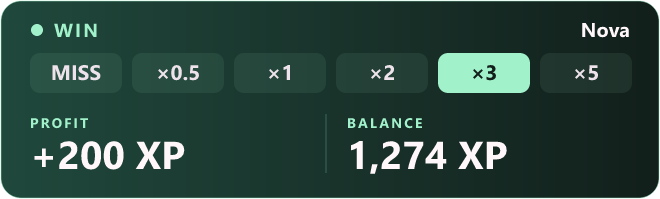
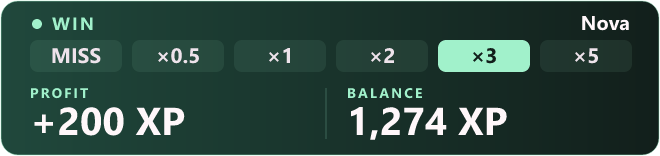
Update reward settings, reset controls and no-limit game preview

diff --git a/red-casino/dashboard-preview/app.js b/red-casino/dashboard-preview/app.js
@@ -167,15 +167,57 @@ function economyPage() {
         <div class="currency-preview"><span>Preview</span><output id="currency-preview">${escapeHtml(xp(10000))}</output></div>
       </div>
       ${section('📅', 'Daily check-in', 'Members claim once per server calendar day with /daily.')}
+      <div class="rewards-guide"><div><strong>A starting pace for 5k–20k bets</strong><p>5k attendance, up to 4k streak bonus, 1k membership bonus, 100 per eligible chat message, and 500 per five voice minutes. No daily earning limits. Review the rates, then save.</p></div><button type="button" class="secondary" data-rewards-preset>Fill community preset</button></div>
       <div class="fields">
         <label>Server timezone<input name="timezone" value="${escapeHtml(value.timezone)}" placeholder="Asia/Manila" maxlength="100" required></label>
         ${input('dailyXp', 'Daily reward · XP', value.dailyXp, 0, 100000000)}
+        ${input('dailyStreakXp', 'Bonus per extra consecutive day · XP', value.dailyStreakXp, 0, 1000000)}
+        ${input('dailyStreakCap', 'Streak bonus stops growing on day', value.dailyStreakCap, 1, 30)}
         ${input('memberXp', 'Membership bonus · XP', value.memberXp, 0, 100000000)}
         ${input('memberDays', 'Membership required · days', value.memberDays, 0, 3650)}
       </div>
+      ${section('💬', 'Chat rewards', 'Earn across text channels, with one cooldown per member across the whole server. Bots, webhooks, edits, and slash commands do not earn chat rewards.')}
+      ${check('textXpEnabled', 'Enable chat rewards', value.textXpEnabled)}
+      <div class="fields">
+        ${input('textXp', 'Per eligible message · XP', value.textXp, 0, 1000000)}
+        ${input('textCooldown', 'Reward cooldown · seconds', value.textCooldown, 15, 3600)}
+        ${input('textDailyLimit', 'Optional daily chat limit · 0 = No limit', value.textDailyLimit, 0, 100000000)}
+      </div>
+      ${section('🎧', 'Voice rewards', 'Earn for eligible time in normal voice channels. AFK and stage channels never earn rewards. Offline bot time does not count.')}
+      ${check('voiceXpEnabled', 'Enable voice rewards', value.voiceXpEnabled)}
+      ${check('voiceIgnoreMuted', 'Pause rewards for muted or deafened members', value.voiceIgnoreMuted)}
+      <div class="fields">
+        ${input('voiceXp', 'Per voice interval · XP', value.voiceXp, 0, 1000000)}
+        ${input('voiceMinutes', 'Eligible minutes per reward', value.voiceMinutes, 1, 60)}
+        ${input('voiceDailyLimit', 'Optional daily voice limit · 0 = No limit', value.voiceDailyLimit, 0, 100000000)}
+        ${input('voiceMinMembers', 'Eligible humans required in the same channel', value.voiceMinMembers, 1, 10)}
+      </div>
+      ${section('📍', 'Activity exclusions', 'All visible server channels count unless excluded here. Excluding a category also excludes its channels and their threads.')}
+      <details class="game-channels"><summary>Excluded channels and categories</summary><div class="channel-options">
+        ${[...(overview.activityChannels ?? []), ...value.activityExcludedChannels.filter(id => !(overview.activityChannels ?? []).some(channel => channel.id === id)).map(id => ({ id, name: 'Unavailable channel' }))]
+          .map(channel => `<label><input type="checkbox" name="activityExcludedChannels" value="${escapeHtml(channel.id)}" ${value.activityExcludedChannels.includes(channel.id) ? 'checked' : ''}><span>${channel.type === 4 ? 'Category · ' : channel.type === 2 || channel.type === 13 ? 'Voice · ' : '#'}${escapeHtml(channel.name)}</span></label>`).join('')}
+      </div></details>
       ${section('🎁', 'Member gifts', 'The sender pays the fee on top of the gift, rounded up to the next whole XP.')}
       <div class="fields">${input('giftFee', 'Transfer fee · %', value.giftFee, 0, 100)}</div>
       ${save()}
+    </form>
+    <form class="panel" data-form="reset-schedule">
+      ${section('🔄', 'Scheduled balance resets', `Use the server timezone: ${escapeHtml(value.timezone)}. Each reset zeroes balances and closes unfinished games, including lotteries. Attendance history and today's activity totals stay intact.`)}
+      ${check('xpResetEnabled', 'Enable scheduled balance resets', value.xpResetEnabled)}
+      <div class="fields">
+        <label>Repeat<select name="xpResetCycle">${['daily', 'weekly', 'monthly'].map(cycle => `<option value="${cycle}" ${value.xpResetCycle === cycle ? 'selected' : ''}>${cycle[0].toUpperCase() + cycle.slice(1)}</option>`).join('')}</select></label>
+        ${input('xpResetHour', 'Hour · 24-hour clock', value.xpResetHour, 0, 23)}
+        ${input('xpResetMinute', 'Minute', value.xpResetMinute, 0, 59)}
+        <label>Weekday · weekly only<select name="xpResetWeekday">${['Sunday', 'Monday', 'Tuesday', 'Wednesday', 'Thursday', 'Friday', 'Saturday'].map((day, index) => `<option value="${index}" ${value.xpResetWeekday === index ? 'selected' : ''}>${day}</option>`).join('')}</select></label>
+        ${input('xpResetMonthDay', 'Day of month · monthly only', value.xpResetMonthDay, 1, 28)}
+      </div>
+      <p class="muted">${session.demo ? 'Preview only. Scheduled resets do not run here.' : overview.resetStatus?.nextAt ? `Next reset: ${escapeHtml(new Date(overview.resetStatus.nextAt).toLocaleString('en-US', { timeZone: value.timezone, dateStyle: 'medium', timeStyle: 'short' }))} · ${escapeHtml(value.timezone)}` : 'Scheduled resets are off.'}</p>
+      ${save()}
+    </form>
+    <form class="panel" data-form="reset">
+      ${section('🧹', 'Reset all balances now', 'Set every member balance to zero and close unfinished games. This keeps attendance history, activity totals, and the audit ledger.')}
+      <div class="fields"><label>Type RESET to confirm<input name="confirmation" pattern="RESET" autocomplete="off" required></label></div>
+      <div class="form-footer"><span>Applies only to the selected server.</span><button class="primary danger">Reset All Balances</button></div>
     </form>
     <form class="panel" data-form="adjust">
       ${section('🛠', 'Adjust a balance', 'Add or remove XP and record your reason in the ledger. Use /xp for a member without a profile.')}
@@ -233,8 +275,8 @@ function gamesPage() {
         return `<section class="panel game"><div class="game-top">${section(emoji, name, description)}
           ${check(`${id}.enabled`, 'Enabled', config.enabled)}</div><div class="command">/${id}</div>
           <div class="fields game-limits">
-          ${free ? '' : input(`${id}.min`, 'Min stake', config.min, 1, 100000000)}
-          ${free ? '' : input(`${id}.max`, 'Max stake', config.max, 1, 100000000)}
+          ${free ? '' : input(`${id}.min`, 'Min stake', config.min, 1, Number.MAX_SAFE_INTEGER)}
+          ${free ? '' : input(`${id}.max`, 'Max stake · 0 = No limit', config.max, 0, Number.MAX_SAFE_INTEGER)}
           ${input(`${id}.cooldown`, 'Cooldown · s', config.cooldown, 0, 3600)}
           </div>${id === 'wheel' ? extra[id]() : extra[id] ? `<div class="fields">${extra[id]()}</div>` : ''}
           ${options ? `<div class="fields">${options.map(([key, label, min, max]) => input(key, label, value[key], min, max)).join('')}</div>` : ''}
@@ -295,6 +337,16 @@ async function loadGuild(id) {
 }
 
 document.addEventListener('click', async (event) => {
+  if (event.target.closest('[data-rewards-preset]') && session.rewardsPreset) {
+    const form = root.querySelector('[data-form="economy"]');
+    for (const [name, value] of Object.entries(session.rewardsPreset)) {
+      const input = form.elements.namedItem(name);
+      if (!input) continue;
+      if (input.type === 'checkbox') input.checked = value;
+      else input.value = value;
+    }
+    announce('Community reward rates filled in. Review them, then save changes.');
+  }
   const server = event.target.closest('[data-server]');
   if (server) { announce(''); await loadGuild(server.dataset.server); }
   if (event.target.closest('#servers')) { announce(''); await loadGuild(''); }
@@ -363,7 +415,16 @@ root.addEventListener('submit', async (event) => {
   submit.disabled = true;
   announce('');
   try {
-    if (kind === 'adjust') {
+    if (kind === 'reset') {
+      form.dataset.requestId ||= crypto.randomUUID();
+      const reset = await api(`/api/guilds/${id}/reset`, 'POST', { confirmation: data.get('confirmation'), requestId: form.dataset.requestId });
+      if (selection !== current) return;
+      const refreshed = await api(`/api/guilds/${id}`);
+      if (selection !== current) return;
+      overview = refreshed;
+      render();
+      announce(`${reset.changed} balance(s) reset. ${reset.closedRounds} unfinished game(s) closed.`);
+    } else if (kind === 'adjust') {
       const payload = { user: data.get('user').trim(), delta: num('delta'), reason: data.get('reason') };
       const signature = JSON.stringify(payload);
       if (form.dataset.adjustment !== signature) {
@@ -384,12 +445,19 @@ root.addEventListener('submit', async (event) => {
         settings.currencyLabel = data.get('currencyLabel').trim();
         settings.currencyPosition = data.get('currencyPosition');
         settings.currencyDecimals = num('currencyDecimals');
-        for (const key of ['dailyXp', 'memberXp', 'memberDays', 'giftFee']) settings[key] = num(key);
+        for (const key of ['dailyXp', 'dailyStreakXp', 'dailyStreakCap', 'memberXp', 'memberDays', 'giftFee',
+          'textXp', 'textCooldown', 'textDailyLimit', 'voiceXp', 'voiceMinutes', 'voiceDailyLimit', 'voiceMinMembers']) settings[key] = num(key);
+        for (const key of ['textXpEnabled', 'voiceXpEnabled', 'voiceIgnoreMuted']) settings[key] = data.has(key);
+        settings.activityExcludedChannels = data.getAll('activityExcludedChannels');
       } else if (kind === 'lottery') {
         settings.lotteryEnabled = data.has('lotteryEnabled');
         settings.lotteryChannel = data.get('lotteryChannel');
         settings.lotteryTimezone = data.get('lotteryTimezone').trim();
         for (const key of ['lotteryMinutes', 'lotteryPrize']) settings[key] = num(key);
+      } else if (kind === 'reset-schedule') {
+        settings.xpResetEnabled = data.has('xpResetEnabled');
+        settings.xpResetCycle = data.get('xpResetCycle');
+        for (const key of ['xpResetHour', 'xpResetMinute', 'xpResetWeekday', 'xpResetMonthDay']) settings[key] = num(key);
       } else {
         settings.leaderboardChannel = data.get('leaderboardChannel');
         for (const [game, config] of Object.entries(settings.games)) {
@@ -405,6 +473,7 @@ root.addEventListener('submit', async (event) => {
       const saved = await api(`/api/guilds/${id}/settings`, 'PUT', { settings, revision: overview.revision });
       if (selection !== current) return;
       Object.assign(overview, saved);
+      if (kind === 'economy' || kind === 'reset-schedule') render();
       announce('Settings saved.');
     }
   } catch (error) {

diff --git a/red-casino/dashboard-preview/style.css b/red-casino/dashboard-preview/style.css
@@ -94,6 +94,11 @@ main { width: 100%; max-width: 1530px; padding: 0 36px 36px; margin: 0 auto; }
 .split { display: grid; grid-template-columns: 1fr 1fr; gap: 18px; }
 .panel { padding: 19px; }
 form.panel + form.panel { margin-top: 15px; }
+.rewards-guide { display: flex; flex-wrap: wrap; gap: 15px; align-items: center; margin: 15px 0; padding: 15px; border: 1px solid #57436f; border-radius: 12px; background: #31244266; }
+.rewards-guide > div { flex: 1 1 270px; }
+.rewards-guide strong { font-size: 14px; }
+.rewards-guide p { margin: 6px 0 0; color: var(--muted); font-size: 13px; line-height: 1.5; }
+.primary.danger { background: #f18ba1; color: #34131c; }
 .section-title { display: flex; align-items: flex-start; gap: 11px; margin-bottom: 15px; }
 .section-title > span { display: grid; place-items: center; width: 39px; height: 39px; flex: 0 0 39px; border-radius: 11px; background: #2b223f; font-size: 19px; }
 .section-title h2 { margin: 0; font-size: 16px; }
@@ -126,6 +131,7 @@ form.panel + form.panel { margin-top: 15px; }
 .game-channels { margin: 18px 0 0; padding: 0; border: 0; min-width: 0; }
 .game-channels legend { margin-bottom: 8px; color: #e0d6f2; font-size: 12px; font-weight: 650; }
 .game-channels details { border: 1px solid #443957; border-radius: 9px; background: #15131f; overflow: hidden; }
+details.game-channels { margin-bottom: 18px; border: 1px solid #443957; border-radius: 9px; background: #15131f; overflow: hidden; }
 .game-channels summary { display: flex; align-items: center; justify-content: space-between; gap: 10px; padding: 11px 12px; cursor: pointer; color: #dbc5ff; font-size: 13px; list-style: none; }
 .game-channels summary::after { content: '⌄'; color: var(--muted); }
 .game-channels summary::-webkit-details-marker { display: none; }

diff --git a/red-casino/dashboard/style.css b/red-casino/dashboard/style.css
@@ -94,6 +94,11 @@ main { width: 100%; max-width: 1530px; padding: 0 36px 36px; margin: 0 auto; }
 .split { display: grid; grid-template-columns: 1fr 1fr; gap: 18px; }
 .panel { padding: 19px; }
 form.panel + form.panel { margin-top: 15px; }
+.rewards-guide { display: flex; flex-wrap: wrap; gap: 15px; align-items: center; margin: 15px 0; padding: 15px; border: 1px solid #57436f; border-radius: 12px; background: #31244266; }
+.rewards-guide > div { flex: 1 1 270px; }
+.rewards-guide strong { font-size: 14px; }
+.rewards-guide p { margin: 6px 0 0; color: var(--muted); font-size: 13px; line-height: 1.5; }
+.primary.danger { background: #f18ba1; color: #34131c; }
 .section-title { display: flex; align-items: flex-start; gap: 11px; margin-bottom: 15px; }
 .section-title > span { display: grid; place-items: center; width: 39px; height: 39px; flex: 0 0 39px; border-radius: 11px; background: #2b223f; font-size: 19px; }
 .section-title h2 { margin: 0; font-size: 16px; }
@@ -126,6 +131,7 @@ form.panel + form.panel { margin-top: 15px; }
 .game-channels { margin: 18px 0 0; padding: 0; border: 0; min-width: 0; }
 .game-channels legend { margin-bottom: 8px; color: #e0d6f2; font-size: 12px; font-weight: 650; }
 .game-channels details { border: 1px solid #443957; border-radius: 9px; background: #15131f; overflow: hidden; }
+details.game-channels { margin-bottom: 18px; border: 1px solid #443957; border-radius: 9px; background: #15131f; overflow: hidden; }
 .game-channels summary { display: flex; align-items: center; justify-content: space-between; gap: 10px; padding: 11px 12px; cursor: pointer; color: #dbc5ff; font-size: 13px; list-style: none; }
 .game-channels summary::after { content: '⌄'; color: var(--muted); }
 .game-channels summary::-webkit-details-marker { display: none; }

diff --git a/red-casino/dashboard-preview/preview-api.js b/red-casino/dashboard-preview/preview-api.js
@@ -2,6 +2,7 @@ const sample = fetch(new URL('./sample.json', import.meta.url)).then((response) 
   if (!response.ok) throw new Error('Sample server data could not load.');
   return response.json();
 });
+const resets = new Map();
 
 export async function previewRequest(path, method, body) {
   const { session, overview } = await sample;
@@ -13,6 +14,18 @@ export async function previewRequest(path, method, body) {
     overview.value = body.settings;
     overview.revision += 1;
     return structuredClone({ value: overview.value, revision: overview.revision });
+  }
+  if (method === 'POST' && path === `${guild}/reset`) {
+    if (body.confirmation !== 'RESET') throw new Error('Type RESET to confirm clearing every member balance.');
+    if (resets.has(body.requestId)) return structuredClone(resets.get(body.requestId));
+    const changed = overview.ranking.filter(member => member.balance > 0).length;
+    const result = { members: overview.stats.members, changed, closedRounds: 0, at: Date.now() };
+    overview.ranking = [];
+    overview.stats.xp = 0;
+    overview.resetStatus = { ...(overview.resetStatus ?? {}), lastAt: result.at };
+    overview.activity.unshift({ name: 'Server', delta: 0, reason: 'All sample balances reset' });
+    resets.set(body.requestId, result);
+    return structuredClone(result);
   }
 
   if (method === 'POST' && path === `${guild}/adjust`) {

diff --git a/red-casino/index.html b/red-casino/index.html
@@ -82,7 +82,7 @@
           <div class="feature-copy">
             <span class="feature-tag">01 / XP ECONOMY</span>
             <h3>Earn it. Gift it. Rank up.</h3>
-            <p>Claim daily XP and streaks, earn membership bonuses, gift points to friends, and see how you stack up with <code>/rank</code> and <code>/leaderboard</code>.</p>
+            <p>Claim daily attendance and streak bonuses, earn XP through chat and voice at your server’s configured rates, gift points to friends, and see how you stack up with <code>/rank</code> and <code>/leaderboard</code>.</p>
           </div>
           <img src="./preview/leaderboard.png" width="660" height="208" loading="lazy" alt="Example leaderboard showing Nova, Ember, and Pixel ranked by XP balance">
         </article>
